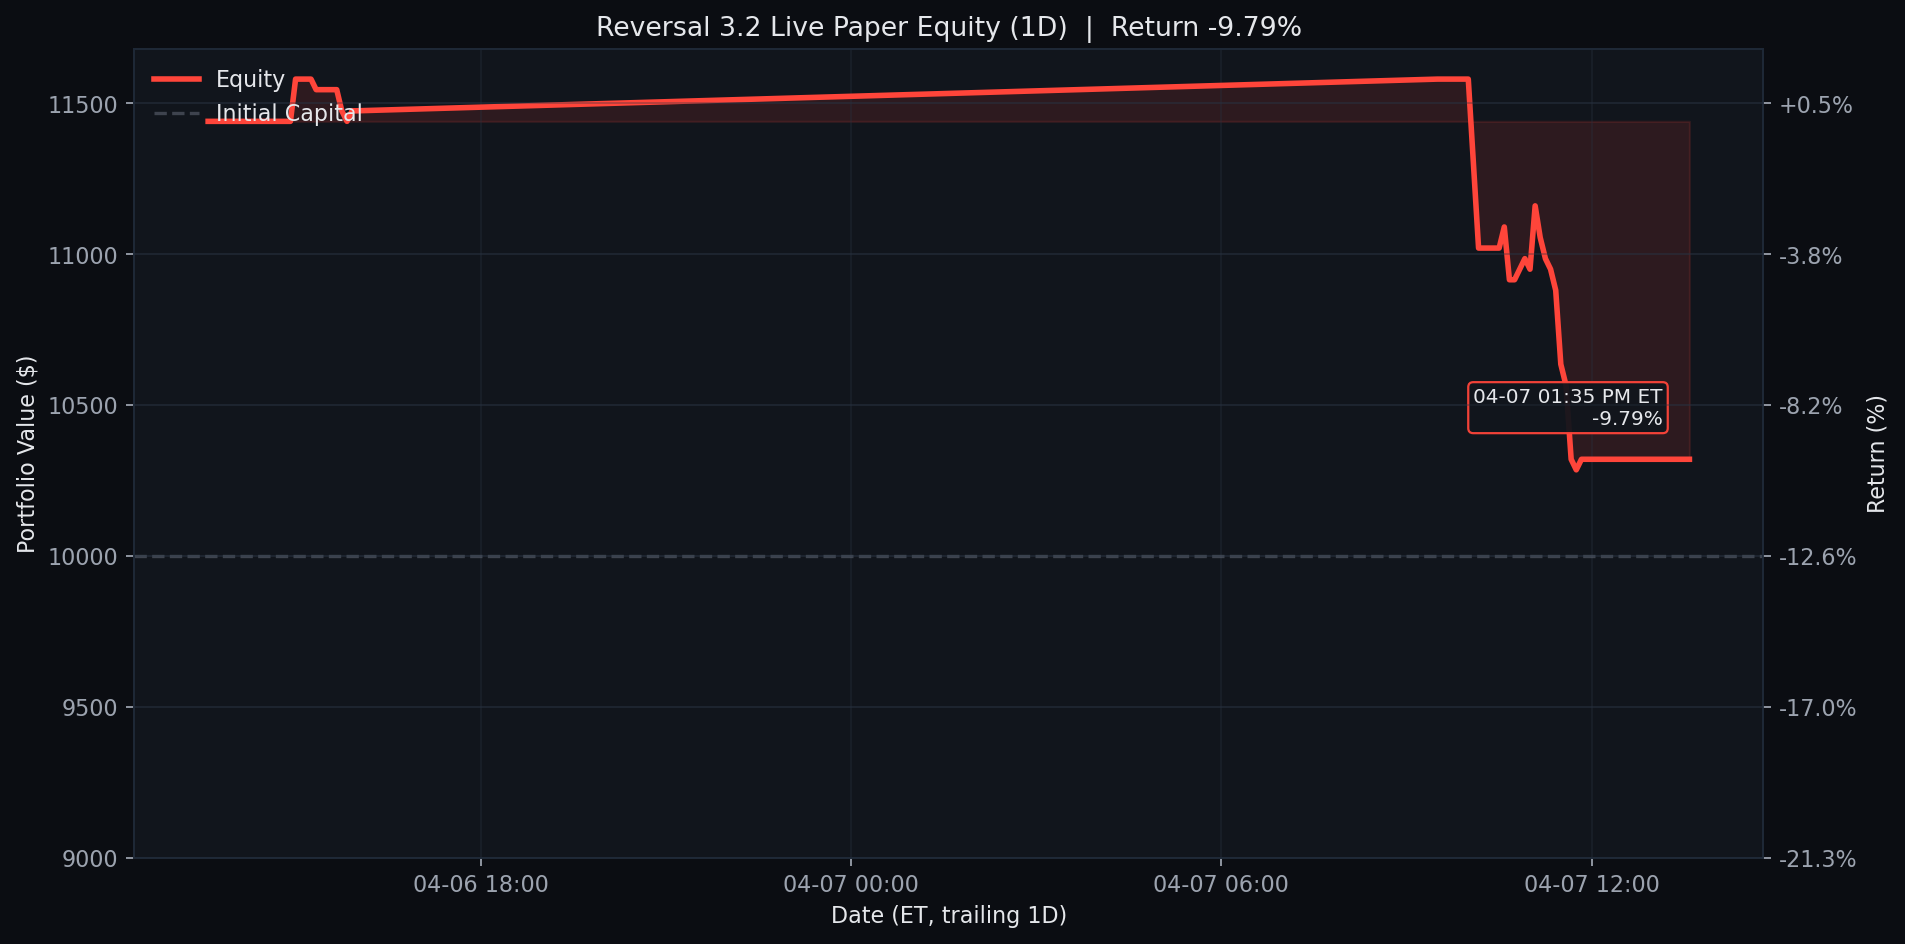
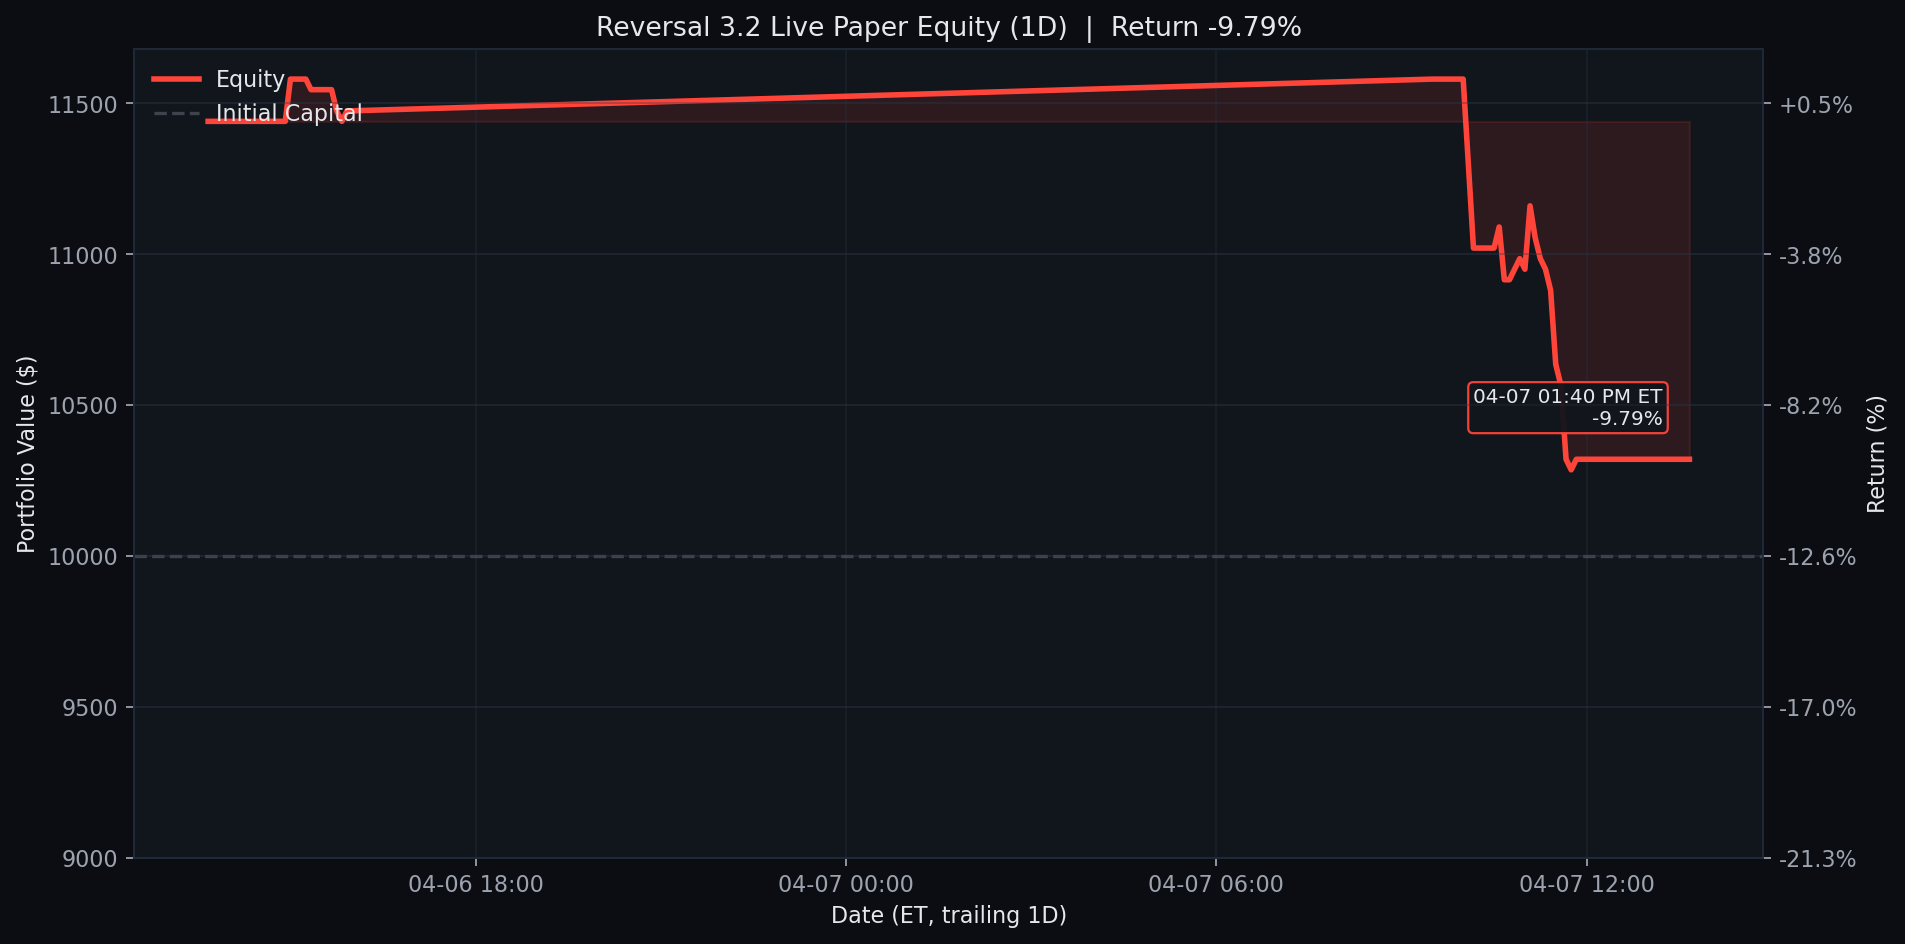
Update Reversal 3.2 live paper test 2026-04-07 13:40 ET

diff --git a/results/reversal_3_2_live/README.md b/results/reversal_3_2_live/README.md
@@ -1,6 +1,6 @@
 # Reversal 3.2 Live Paper Test
 
-Last updated (ET): `2026-04-07 13:35:03 EDT`
+Last updated (ET): `2026-04-07 13:40:00 EDT`
 Last processed slot: `manage_1330`
 
 ## Active Configuration
@@ -40,24 +40,25 @@ ticker    contract_symbol entry_trade_date_et exit_trade_date_et  entry_option_p
 
 ```text
 ticker  success_rate_%  matched_signals  current_drop_%  target_rebound_$  target_price  rolling_sigma_20d_%  call_candidate
-  COST           96.15               26            0.80              5.70       1016.11                13.04            True
-  NVDA           93.55               31            0.94              1.17        177.14                33.70            True
-   LIN           90.00               10            1.49              5.21        497.24                19.02            True
-   KDP           89.47               19            0.62              0.11         25.65                20.32            True
-  GILD           89.29               28            0.62              0.61        139.87                20.18            True
-  CDNS           89.13               46            0.53              1.03        278.95                25.26            True
-  FAST           87.50               24            1.07              0.34         45.72                20.98            True
-  MDLZ           87.50               16            0.53              0.22         58.29                25.49            True
-  KLAC           87.18               39            0.58              6.27       1537.37                45.70            True
-  ORLY           87.10               31            0.86              0.56         91.89                23.11            True
-  VRTX           86.84               38            0.84              2.55        433.21                40.01            True
-  TSLA           86.36               22            2.53              6.24        350.14                42.33            True
+  COST           95.45               22            0.85              6.04       1015.96                13.04            True
+  NVDA           92.59               27            1.08              1.34        177.07                33.70            True
+  UPRO           91.67               36            0.84              0.59        100.49                53.86            True
+  GILD           90.00               30            0.57              0.56        139.89                20.18            True
+  ABNB           89.29               28            1.49              1.32        126.24                36.80            True
+   KDP           88.89               18            0.66              0.12         25.65                20.32            True
+  FAST           88.00               25            1.04              0.33         45.73                20.98            True
+   CSX           88.00               25            0.60              0.18         41.40                24.91            True
+  MDLZ           87.50               16            0.55              0.22         58.28                25.49            True
+  VRTX           87.18               39            0.73              2.21        433.35                40.01            True
+  ORLY           87.10               31            0.89              0.57         91.88                23.11            True
+  CTAS           85.71               28            0.93              1.12        171.21                28.73            True
 ```
 
 ## Recent Events
 
 ```text
                     timestamp_et        slot   event_type                          detail
+2026-04-07T13:40:00.942700-04:00 manage_1330 slot_skipped {"reason": "already_processed"}
 2026-04-07T13:35:03.883059-04:00 manage_1330 slot_skipped {"reason": "already_processed"}
 2026-04-07T13:30:05.887210-04:00 manage_1330 slot_skipped {"reason": "already_processed"}
 2026-04-07T13:25:05.882654-04:00 manage_1330 slot_skipped {"reason": "already_processed"}
@@ -67,7 +68,6 @@ ticker  success_rate_%  matched_signals  current_drop_%  target_rebound_$  targe
 2026-04-07T12:55:00.916656-04:00 manage_1300 slot_skipped {"reason": "already_processed"}
 2026-04-07T12:40:05.895143-04:00 manage_1230 slot_skipped {"reason": "already_processed"}
 2026-04-07T12:35:03.878614-04:00 manage_1230 slot_skipped {"reason": "already_processed"}
-2026-04-07T12:30:00.912059-04:00 manage_1230 slot_skipped {"reason": "already_processed"}
 ```
 
 ## Equity Curves
@@ -77,20 +77,20 @@ Each chart is generated from the same live equity series with no-lookahead marks
 <details>
 <summary><strong>1D</strong></summary>
 
-![Reversal 3.2 Live Equity 1D](../../assets/reversal_3_2_live_equity_1d.png?v=20260407133503)
+![Reversal 3.2 Live Equity 1D](../../assets/reversal_3_2_live_equity_1d.png?v=20260407134000)
 
 </details>
 
 <details open>
 <summary><strong>1W</strong></summary>
 
-![Reversal 3.2 Live Equity 1W](../../assets/reversal_3_2_live_equity.png?v=20260407133503)
+![Reversal 3.2 Live Equity 1W](../../assets/reversal_3_2_live_equity.png?v=20260407134000)
 
 </details>
 
 <details>
 <summary><strong>1M</strong></summary>
 
-![Reversal 3.2 Live Equity 1M](../../assets/reversal_3_2_live_equity_1m.png?v=20260407133503)
+![Reversal 3.2 Live Equity 1M](../../assets/reversal_3_2_live_equity_1m.png?v=20260407134000)
 
 </details>

diff --git a/README.md b/README.md
@@ -3,7 +3,7 @@
 <!-- reversal-3.2-live:start -->
 ## Reversal 3.2 Live Paper Test
 
-- Last updated (ET): `2026-04-07 13:35:03 EDT`
+- Last updated (ET): `2026-04-07 13:40:00 EDT`
 - Equity: `$10,320.00` | Realized: `$320.00` | Unrealized: `$0.00` | Open positions: `0`
 - Today closed trades: `1`
 - Current slot: `manage_1330`
@@ -17,21 +17,21 @@ _None_
 <details>
 <summary><strong>1D</strong></summary>
 
-![Reversal 3.2 Live Equity 1D](assets/reversal_3_2_live_equity_1d.png?v=20260407133503)
+![Reversal 3.2 Live Equity 1D](assets/reversal_3_2_live_equity_1d.png?v=20260407134000)
 
 </details>
 
 <details open>
 <summary><strong>1W</strong></summary>
 
-![Reversal 3.2 Live Equity 1W](assets/reversal_3_2_live_equity.png?v=20260407133503)
+![Reversal 3.2 Live Equity 1W](assets/reversal_3_2_live_equity.png?v=20260407134000)
 
 </details>
 
 <details>
 <summary><strong>1M</strong></summary>
 
-![Reversal 3.2 Live Equity 1M](assets/reversal_3_2_live_equity_1m.png?v=20260407133503)
+![Reversal 3.2 Live Equity 1M](assets/reversal_3_2_live_equity_1m.png?v=20260407134000)
 
 </details>
 
